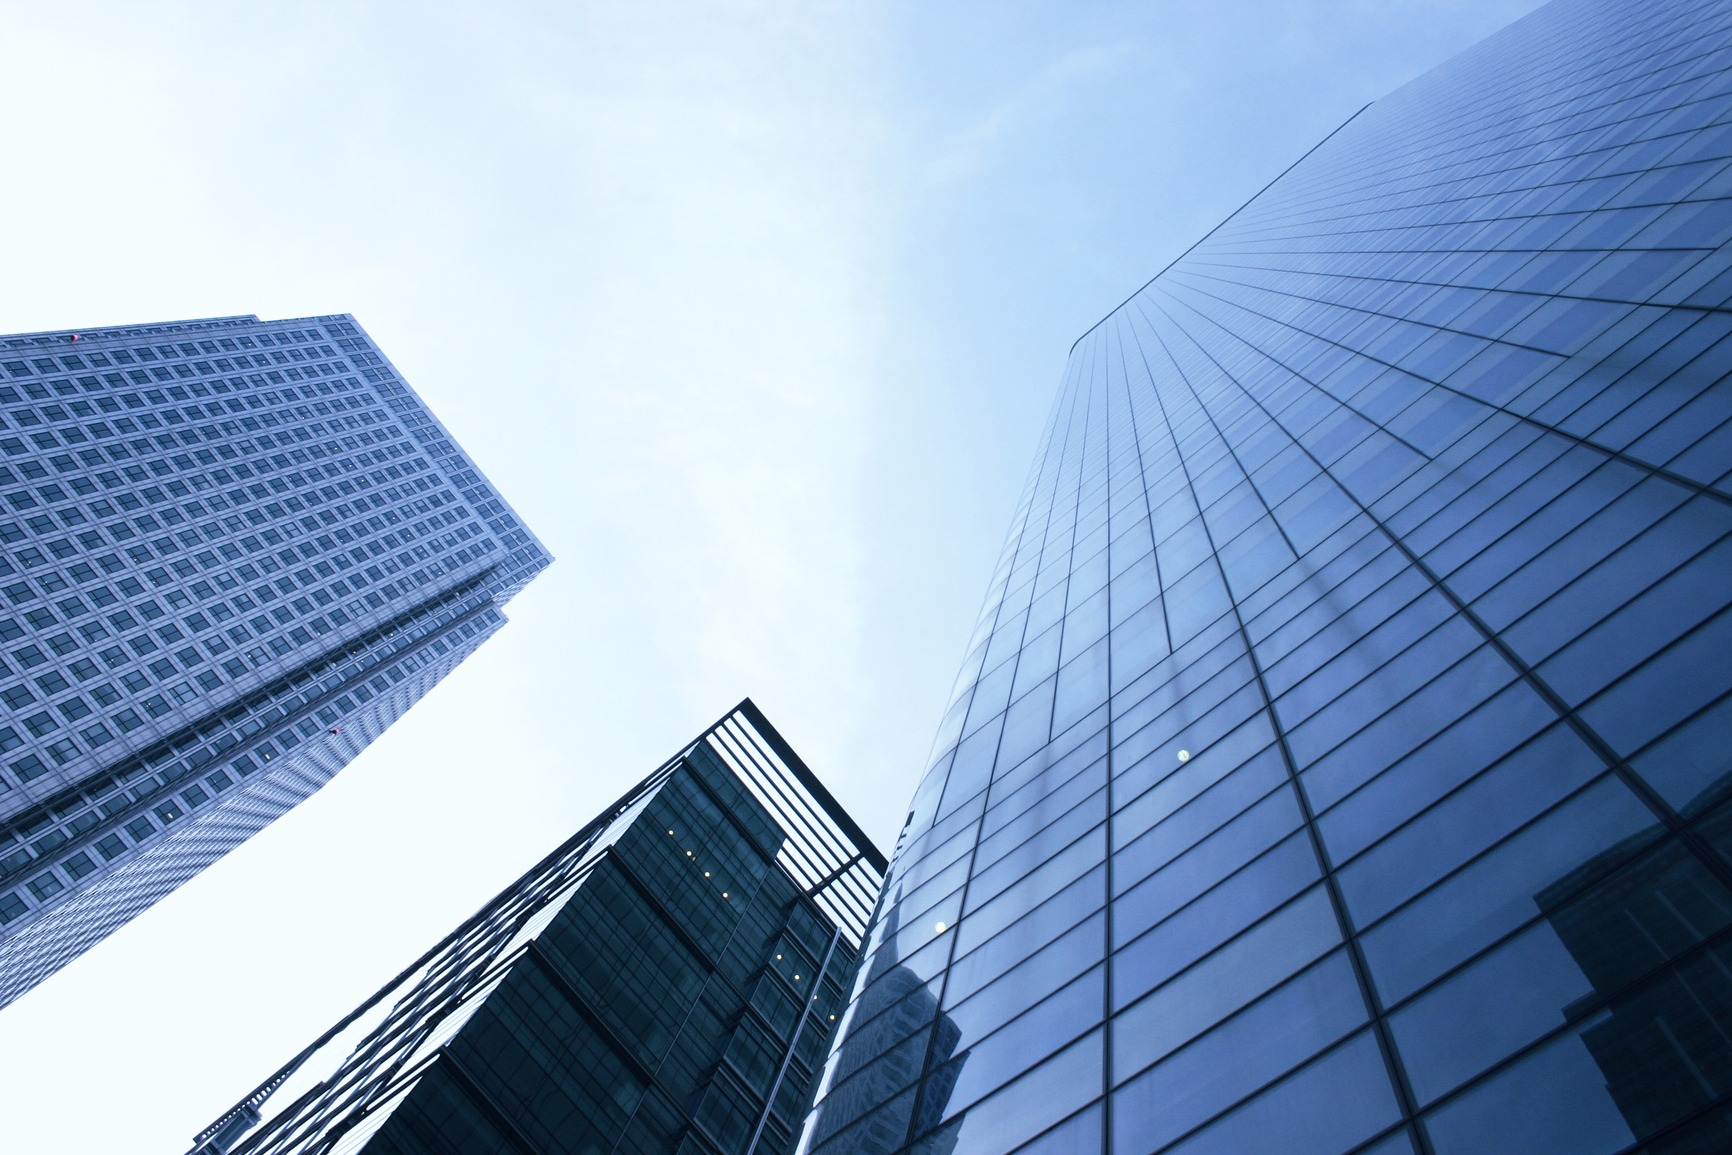
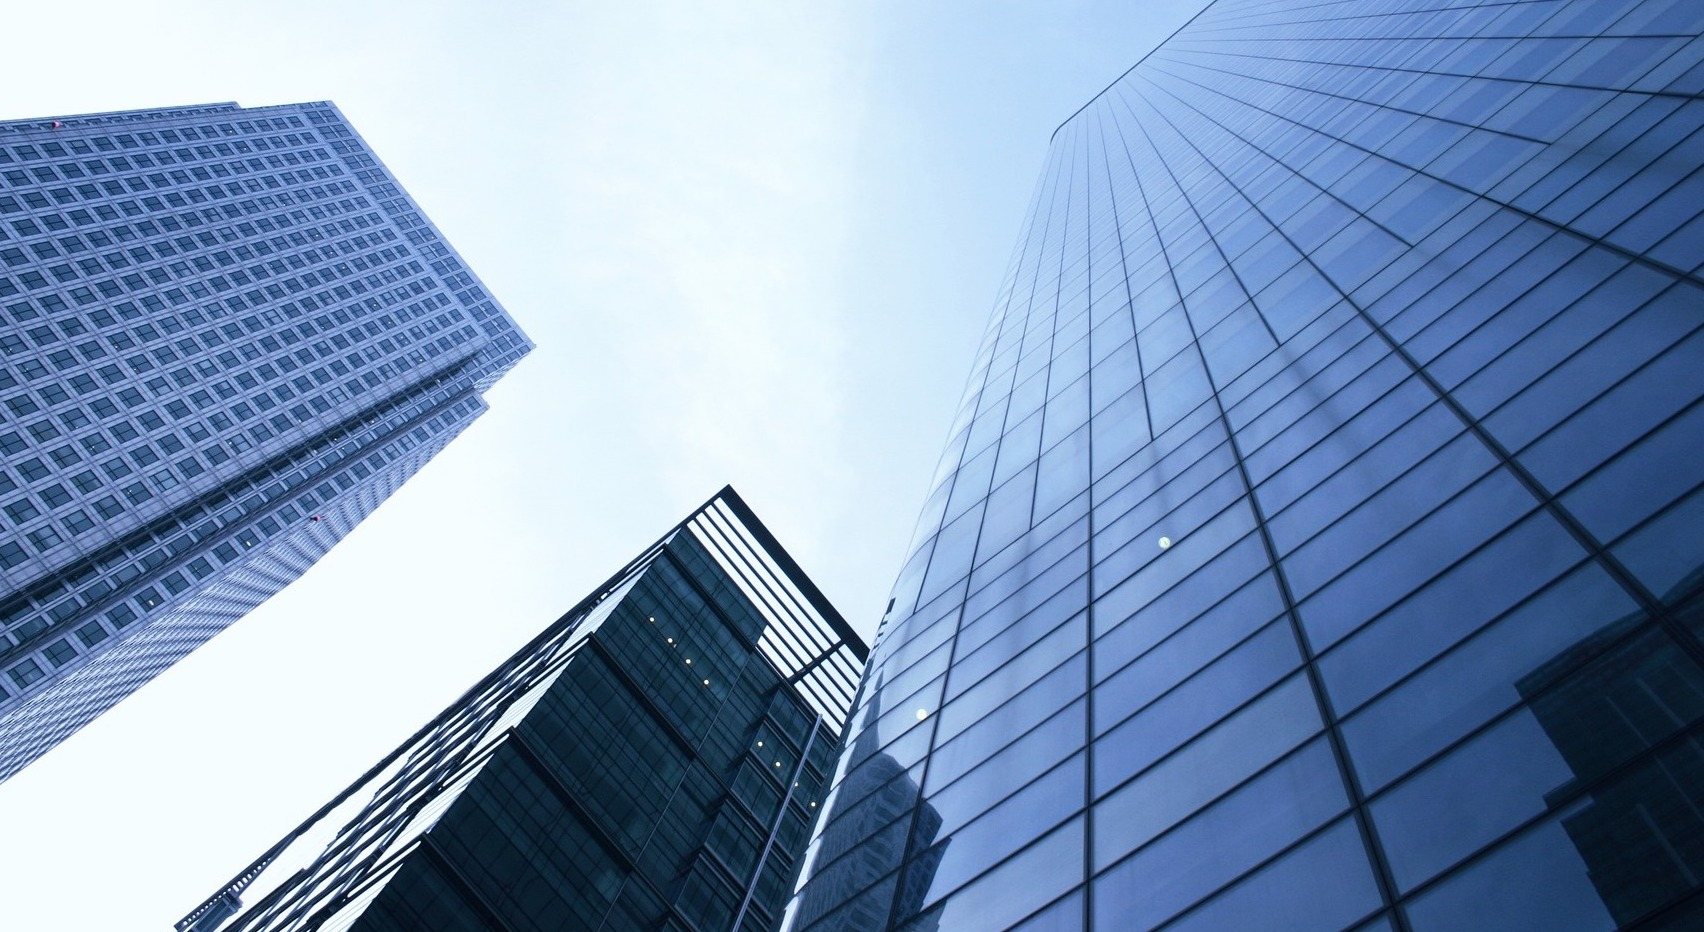
backgroun

diff --git a/CSS/navbar.css b/CSS/navbar.css
@@ -15,6 +15,7 @@ html {
   opacity: 1;
 }
 
+}
 .blur-up {
   will-change: filter, opacity, transform;
   -webkit-filter: blur(3px);
@@ -82,6 +83,15 @@ html {
 [id=sidebar] a {
   position: relative;
   display: inline-block;
+}
+.bgi{
+  width: 100%;
+  height: 40em;
+  position: relative;
+  background-image: url('../images/titleimage.jpg');
+  background-repeat: no-repeat;
+  background-size: cover;
+  background-position: center;
 }
 .FBLALOGO {
 float:left;
@@ -1395,13 +1405,4 @@ svg path {
 }
 [id=footer] .footer-title {
   display: none;
-}
-#homepageimage {
-    width: 100%;
-    height: 50%;
-}
-
-#hoempageimage img {
-    max-width: 50%;
-    max-height: 50%;
 }

diff --git a/test.html b/test.html
@@ -1,7 +1,5 @@
 <!DOCTYPE html>
 <html>
-<body style="background-color:white;">
-<body>
   <head>
     <link rel="icon" type="image/ico" href="images/favicon.ico">
     <link rel="stylesheet"type="text/css" href="CSS/navbar.css">
@@ -249,8 +247,7 @@
 
   }).call(this);
 </script>
-<img id="homepageimage" src="images/titleimage.jpg">
-<body style="background-color:powderblue;">
-</body>
+<body>
+<div class="bgi"></div>
 </body>
 </html>
